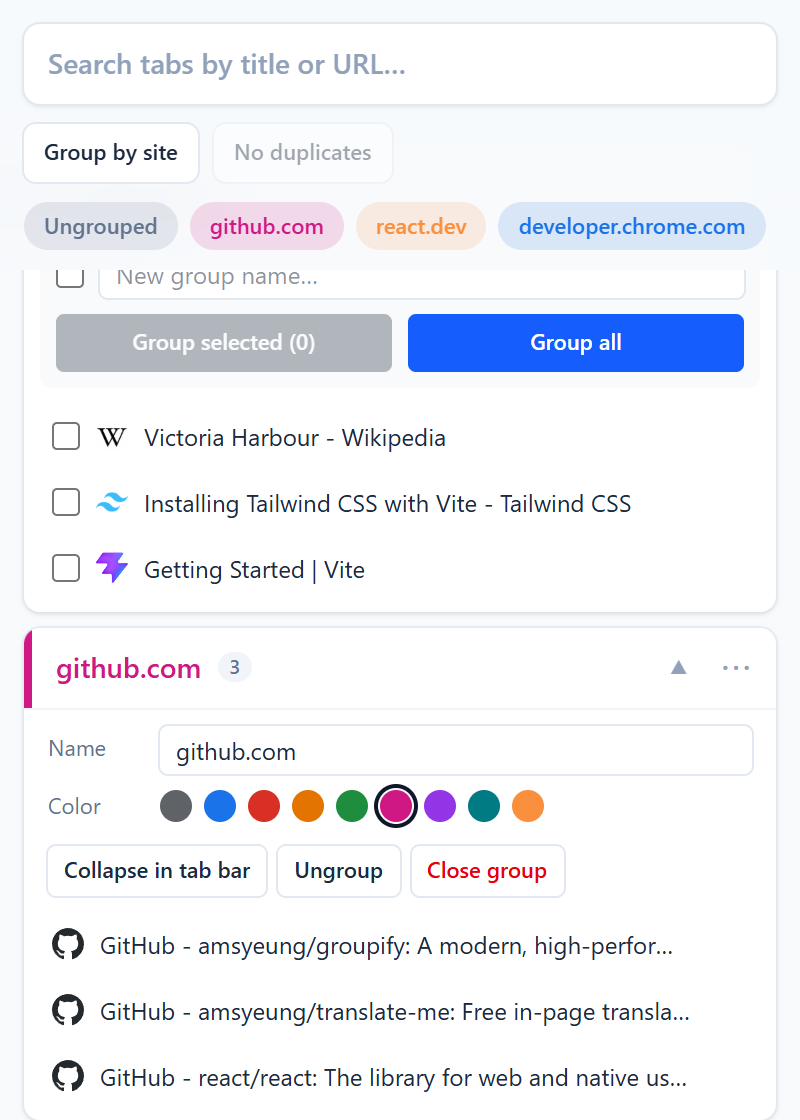
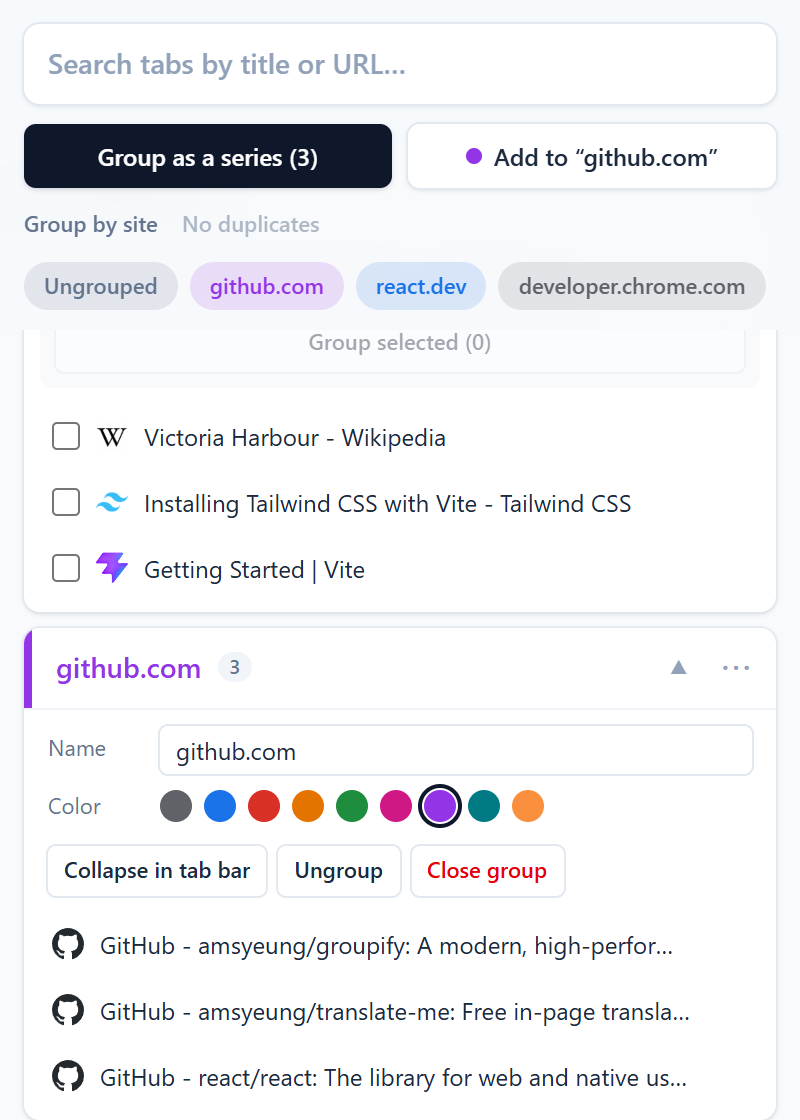
docs: describe series grouping and refresh the screenshots

Changed region(s): [[0.0312, 0.0938, 0.9688, 0.3438], [0.4688, 0.6875, 0.5938, 0.75], [0.0312, 0.5625, 0.25, 0.625]]

diff --git a/README.md b/README.md
@@ -5,22 +5,23 @@
   <a href="https://chromewebstore.google.com/detail/groupify/kkajifdljgkcniokopfhllcocblblmeh"><img alt="Chrome Web Store version" src="https://img.shields.io/chrome-web-store/v/kkajifdljgkcniokopfhllcocblblmeh?style=for-the-badge&logo=googlechrome&logoColor=white&label=Chrome%20Web%20Store&labelColor=000"></a>
   <a href="./LICENSE"><img alt="License: GPLv3" src="https://img.shields.io/badge/License-GPLv3-blue.svg?style=for-the-badge&labelColor=000"></a>
   <p><a href="https://chromewebstore.google.com/detail/groupify/kkajifdljgkcniokopfhllcocblblmeh"><strong>➜ Add to Chrome — it's free</strong></a></p>
-  <img src="images/popup.png" alt="The popup after Group by site: github.com, react.dev and developer.chrome.com groups, with three tabs left ungrouped" width="260">
+  <img src="images/popup.png" alt="The popup with the Group as a series button, three groups and three ungrouped tabs" width="260">
   <img src="images/search.png" alt="Searching for &quot;tab&quot; shows only the matching tabs, with the match highlighted" width="260">
   <img src="images/group-menu.png" alt="The menu of the github.com group: name, color, collapse, ungroup and close" width="260">
 </div>
 
 ## Features
 
-|                      |                                                                                                                   |
-| -------------------- | ----------------------------------------------------------------------------------------------------------------- |
-| **Search**           | Filter tabs by title or URL. <kbd>↑</kbd> <kbd>↓</kbd> and <kbd>Enter</kbd> jump to a tab, <kbd>Esc</kbd> clears. |
-| **Group by site**    | One click puts ungrouped tabs from the same site into a group named after it.                                     |
-| **Close duplicates** | Keeps one tab per page, with **Undo**.                                                                            |
-| **Make groups**      | Tick tabs, name the group, done. New groups get a color that isn't taken.                                         |
-| **Manage groups**    | The ⋯ menu renames, recolors, collapses, ungroups or closes a group.                                              |
-| **Drag and drop**    | Drop a tab on a group, or on a shortcut at the top, to move it.                                                   |
-| **Shortcut**         | <kbd>Alt</kbd>+<kbd>Shift</kbd>+<kbd>G</kbd> opens the popup (change it at `chrome://extensions/shortcuts`).      |
+|                          |                                                                                                                                                                          |
+| ------------------------ | ------------------------------------------------------------------------------------------------------------------------------------------------------------------------ |
+| **Group as a series**    | One click puts every ungrouped tab into one new group, for whatever you're working on right now.                                                                         |
+| **Named for you**        | Chrome's on-device AI suggests a name from the tab titles, privately on your computer. Without it, the group is named after today's date.                                |
+| **Add to current group** | New tabs join the group you're working in.                                                                                                                               |
+| **Search**               | Filter tabs by title or URL. <kbd>↑</kbd> <kbd>↓</kbd> and <kbd>Enter</kbd> jump to a tab, <kbd>Esc</kbd> clears. Grouping while searching only takes the matching tabs. |
+| **Manage groups**        | The ⋯ menu renames, recolors, collapses, ungroups or closes a group.                                                                                                     |
+| **Tidy up**              | Group by site, or close duplicate tabs with **Undo**.                                                                                                                    |
+| **Drag and drop**        | Drop a tab on a group, or on a shortcut at the top, to move it.                                                                                                          |
+| **Shortcut**             | <kbd>Alt</kbd>+<kbd>Shift</kbd>+<kbd>G</kbd> opens the popup (change it at `chrome://extensions/shortcuts`).                                                             |
 
 In English, 繁體中文 and 简体中文, in light and dark mode. More in the [FAQ](SUPPORT.md).
 

diff --git a/SUPPORT.md b/SUPPORT.md
@@ -1,5 +1,17 @@
 # Frequently asked questions
 
+## What does "Group as a series" do?
+
+It puts every tab that isn't in a group yet into one new group, so the tabs you opened for what you're doing now (say, Pinterest, the Next.js docs, Cloudflare and Vercel for a new project) stay together. If you're searching, only the matching tabs are grouped. Type a name in the Ungrouped section first to use your own.
+
+## How is the group named?
+
+If Chrome's on-device AI (Gemini Nano) is already on your computer, it suggests a name from the tab titles. It runs locally, so nothing is sent anywhere, and Groupify never downloads the model itself. Otherwise, the group is named after today's date. You can rename it any time from the ⋯ menu.
+
+## What does "Add to …" do?
+
+It adds the ungrouped tabs to the group you're working in: the group of the tab you're on, or of the grouped tab you used last. Links you open from a grouped tab already join its group in Chrome, so this is for tabs you opened yourself.
+
 ## How do I move a tab into a group?
 
 Drag the tab and drop it on a group in the list, or on one of the group shortcuts at the top of the popup so you don't have to scroll.
